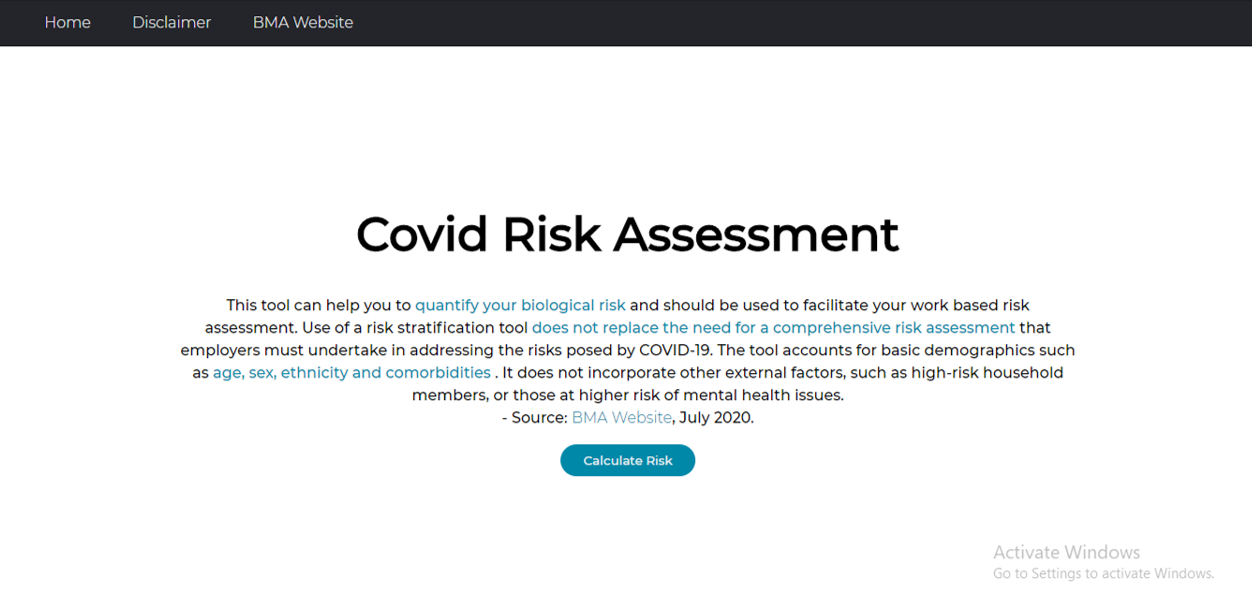
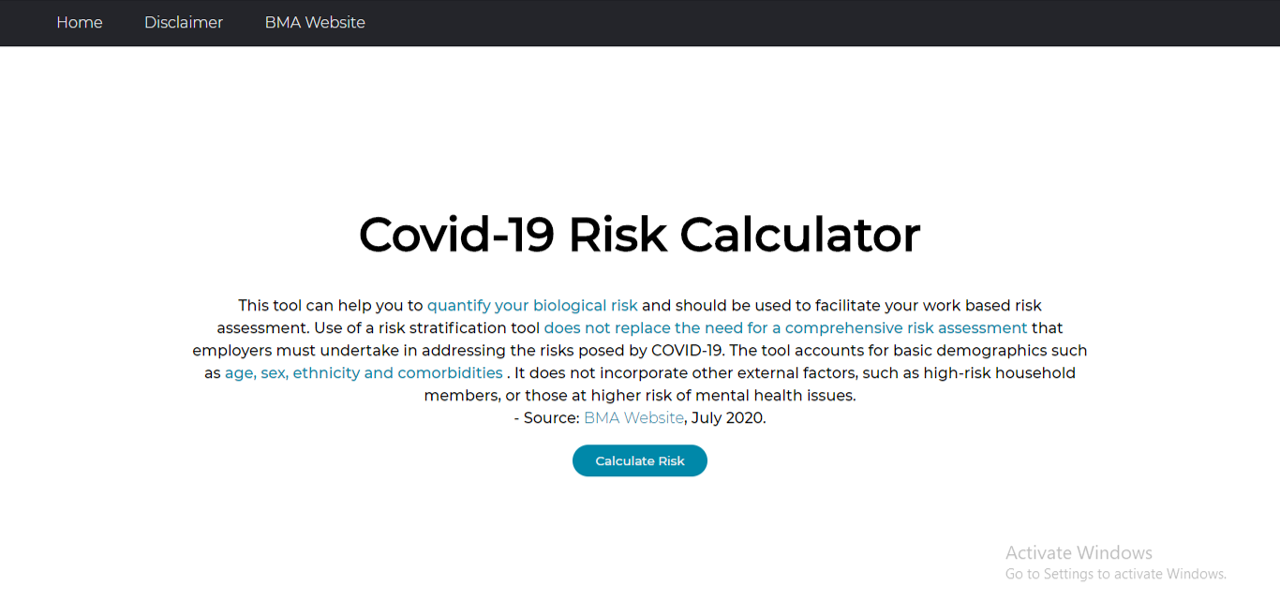
update covid portfolio item

diff --git a/index.html b/index.html
@@ -1,4 +1,3 @@
-<!-- test push -->
 <!DOCTYPE html>
 <html lang="en">
 <head>
@@ -37,7 +36,7 @@
     <div class="grid-container">
 
     <div class="grid-item">
-    <h2>Covid Risk Assessment</h2>
+    <h2>Covid-19 Risk Calculator</h2>
     <img class="project-photo" src="covidRisk.png">
     <p>Web application built based on the BMA guidelines for assessing an individuals covid risk. User fills out a form using drop down boxes and is alerted with what risk category they are in. Built with HTML, CSS and JavaScript.</p>
     <a href="https://catherinestirk97.github.io/covid-risk-assessment/" target="_blank" class="btn">Demo </a> <span class="spacing"></span>  <a href="https://github.com/catherinestirk97/covid-risk-assessment" target="_blank" class="btn">Code</a>
